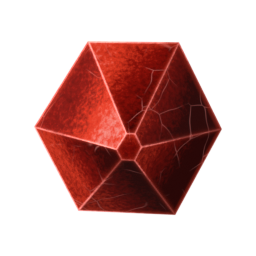
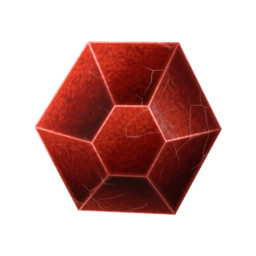
Граненый рубин: широкое плоское плато в центре

Changed region(s): [[0.125, 0.1562, 0.8438, 0.8125], [0.5312, 0.7812, 0.6875, 0.8438]]

diff --git a/prototype/tools/blender/gem_kit.py b/prototype/tools/blender/gem_kit.py
@@ -221,7 +221,7 @@ def nat_diamond():
 
 def fac_ruby():
     # an octahedron's hexagonal outline (pointed left and right), seen as a low pyramid looking at us:
-    # six faces running in from the outline to a small plateau in the middle
+    # six faces running in from the outline to a broad flat plateau in the middle
     rnd = random.Random(31)
     pl = [(Vector((0, 0.12, 0)), Vector((0, 1, 0)))]                       # its flat back
     tilt = math.radians(38)                                                  # how steeply the faces rise to the middle
@@ -229,7 +229,7 @@ def fac_ruby():
         a = math.radians(30 + 60 * k) + rnd.uniform(-0.06, 0.06)
         n = Vector((math.cos(a) * math.cos(tilt), -math.sin(tilt), math.sin(a) * math.cos(tilt)))
         pl.append((n * (0.3 * math.cos(tilt) + rnd.uniform(-0.01, 0.01)), n))
-    pl.append((Vector((0, -0.31, 0)), Vector((0, -1, 0))))                  # a small plateau at the tip
+    pl.append((Vector((0, -0.18, 0)), Vector((0, -1, 0))))                  # a broad flat plateau in the middle
     return cut(pl, 31, (0.5, 1.1))
 
 def fac_citrine():
